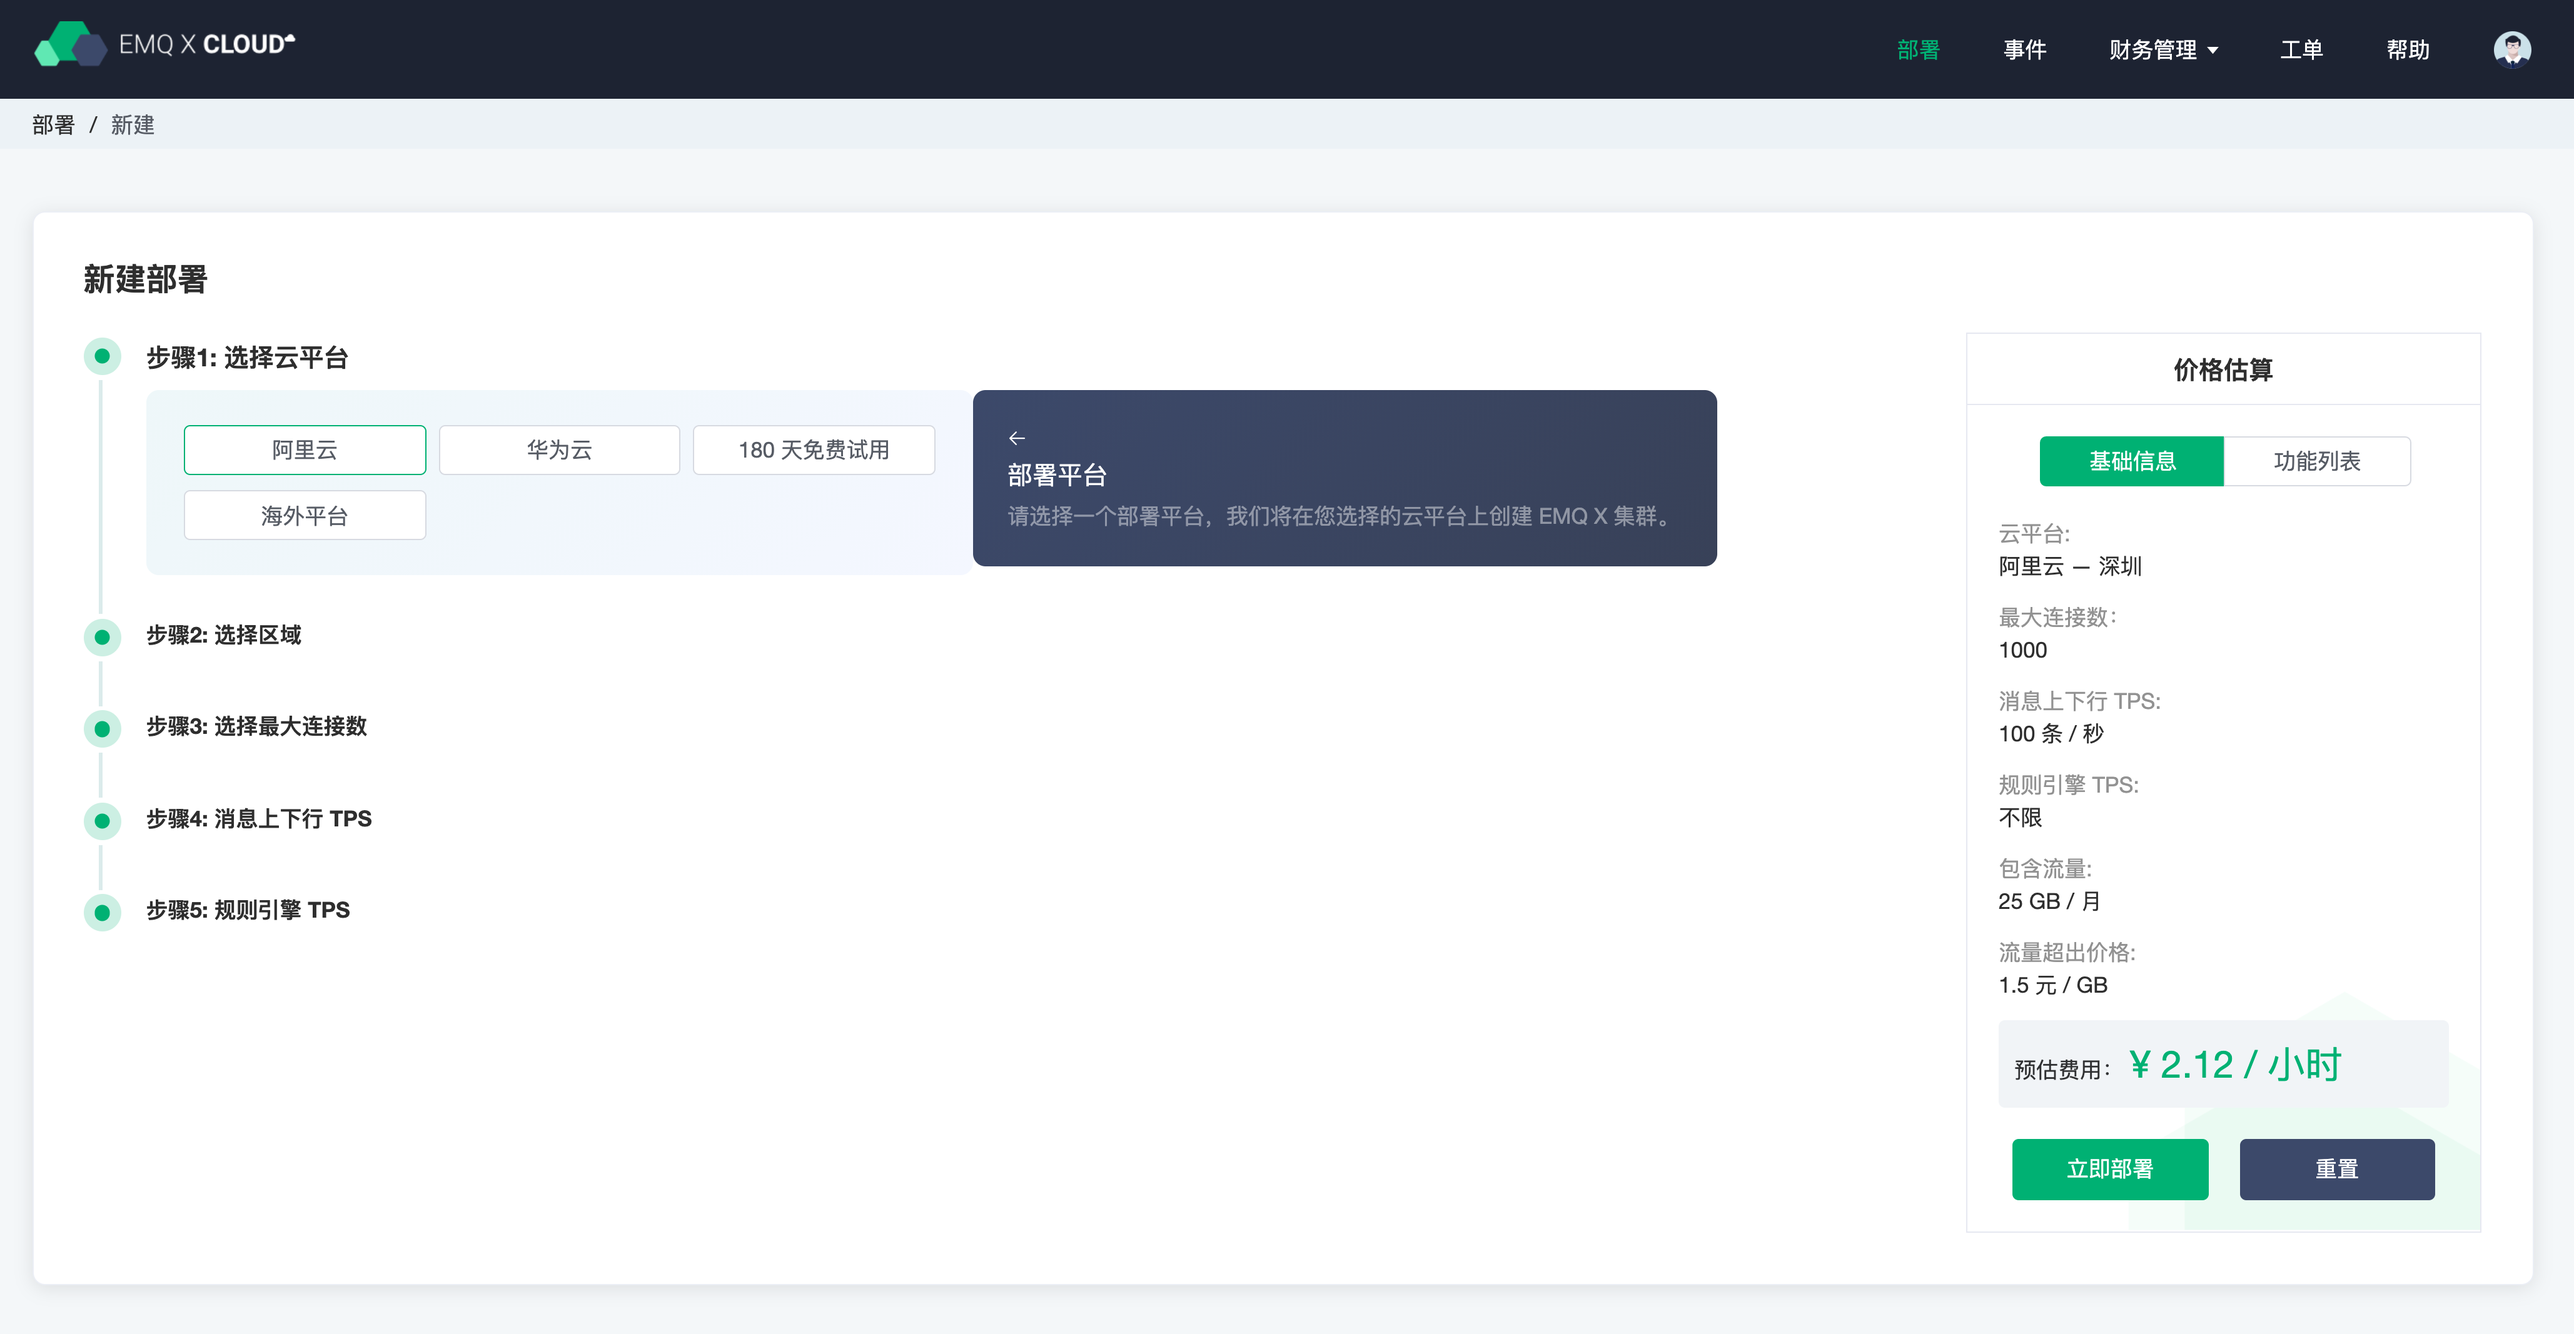
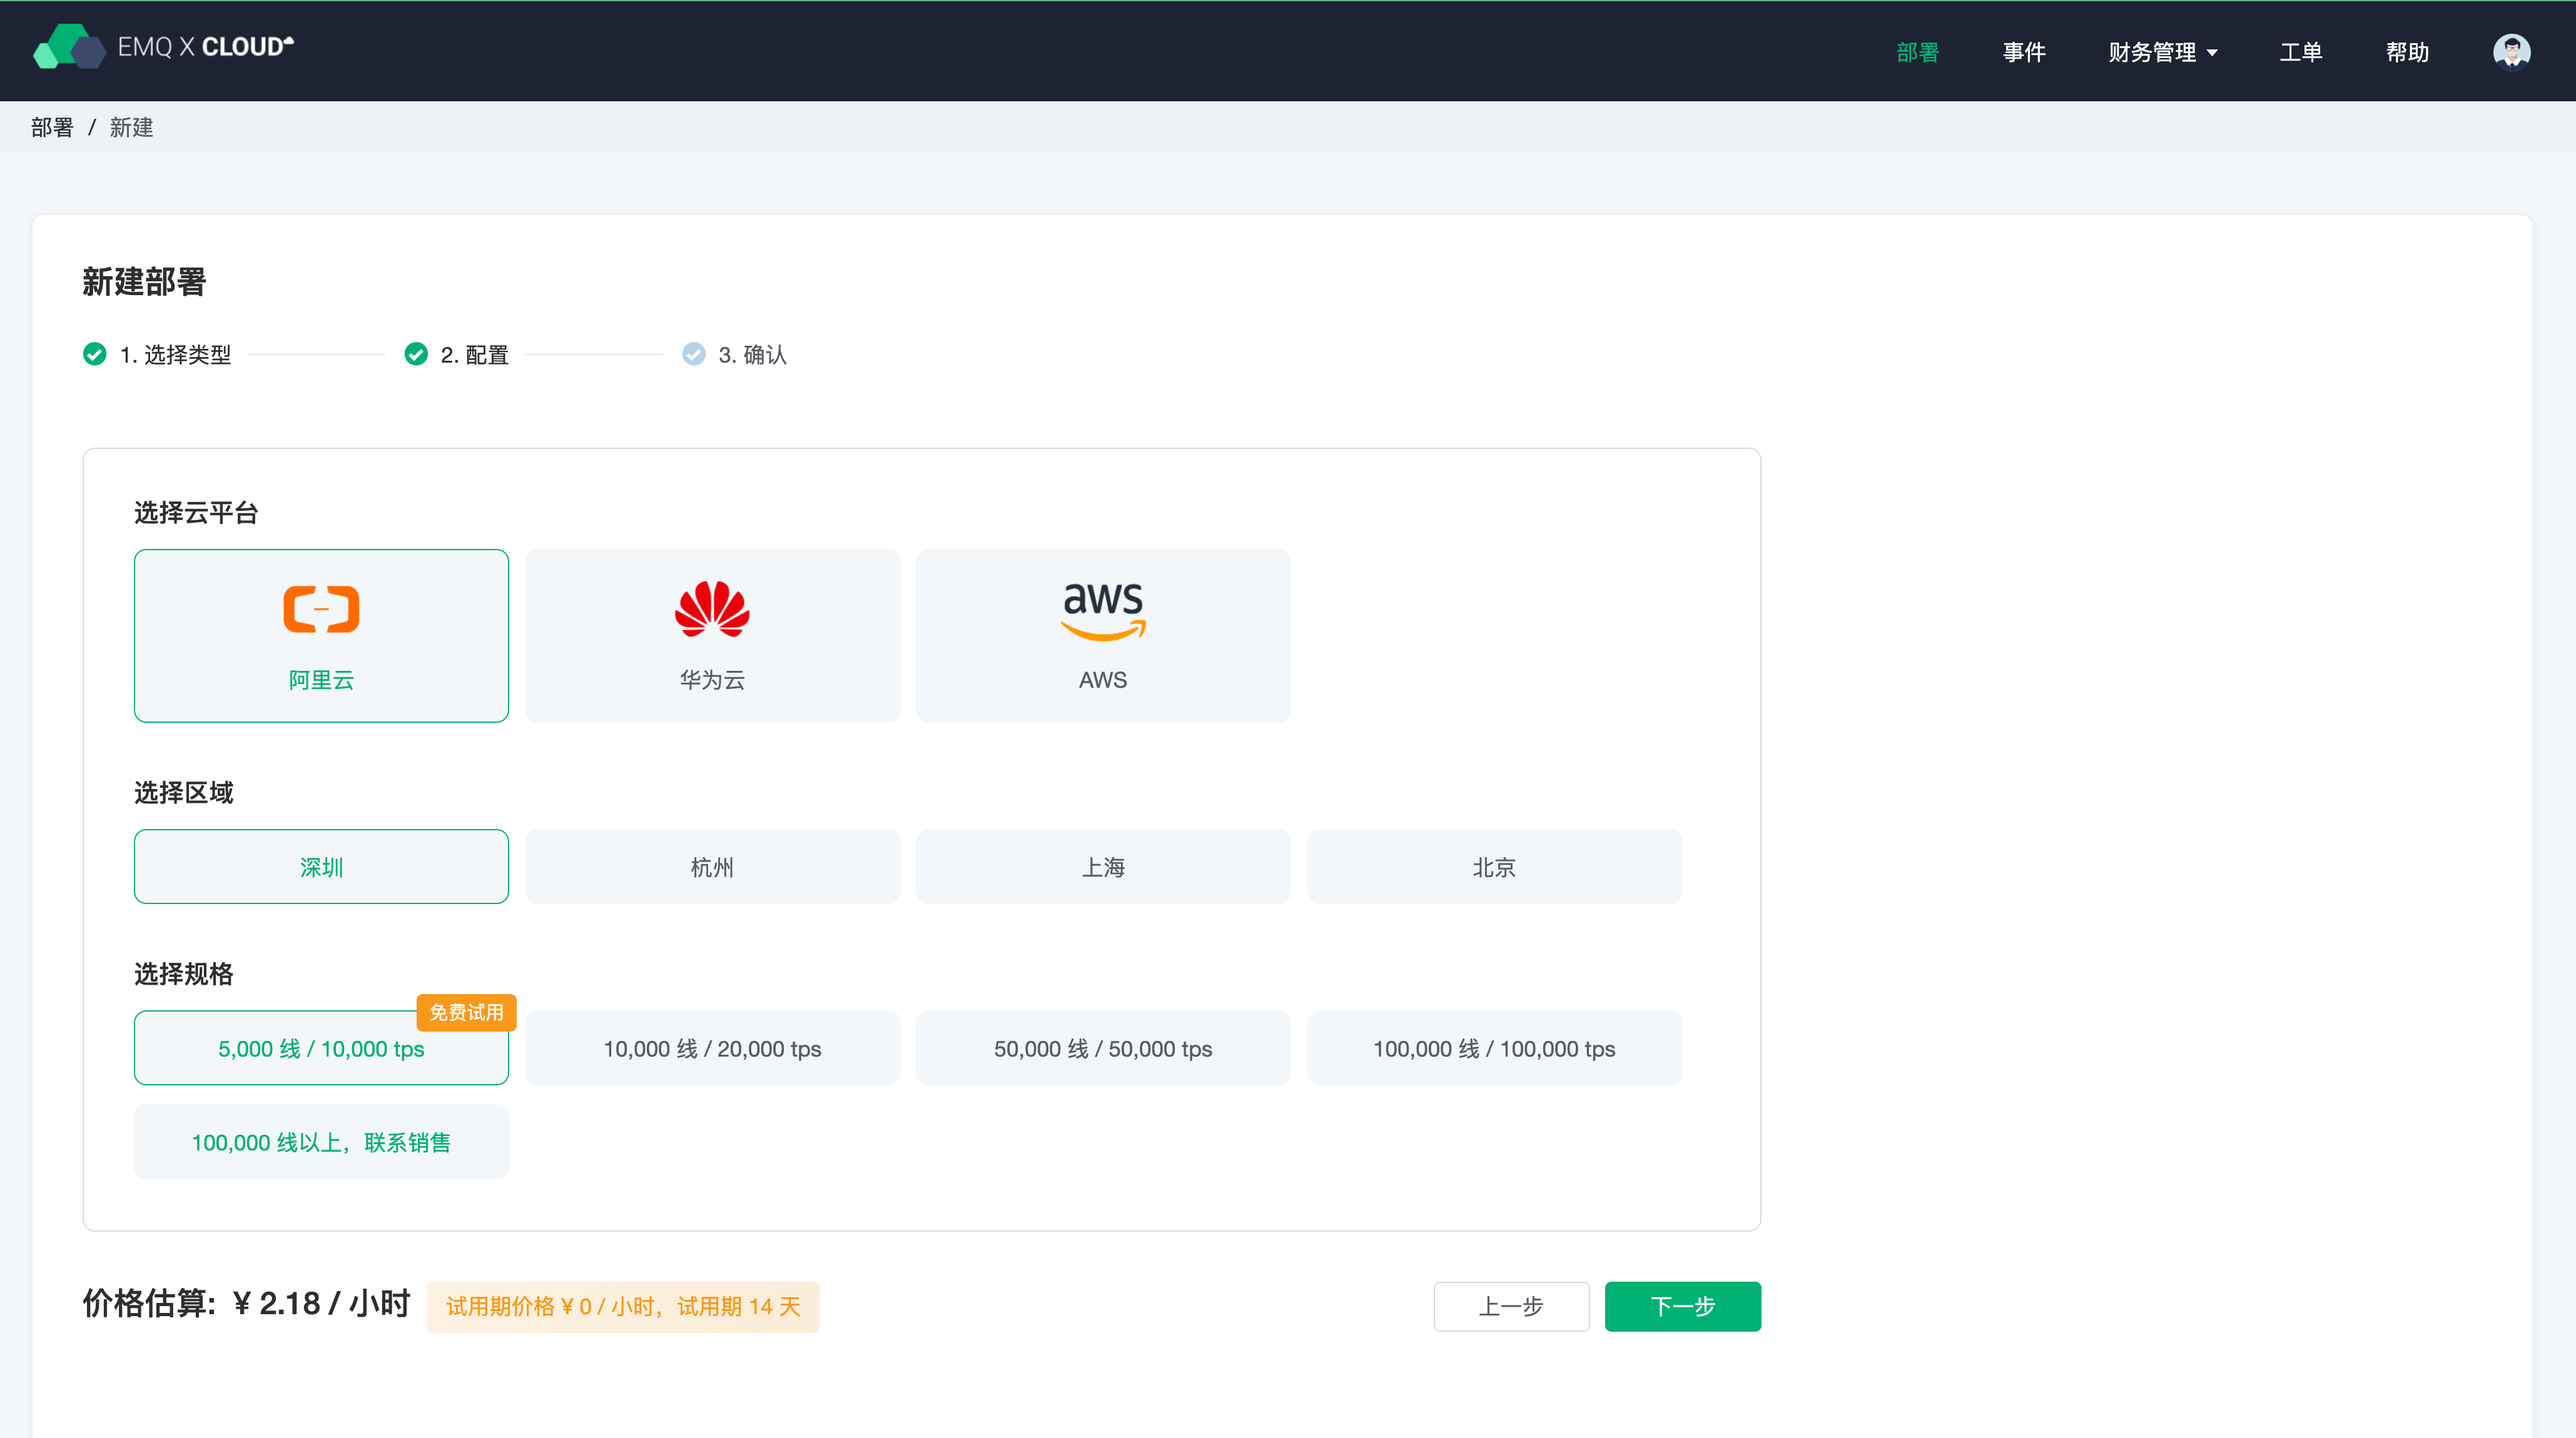
doc(deployment): adjust deployment docs for new edition

diff --git a/zh_CN/deployments/create_deployment.md b/zh_CN/deployments/create_deployment.md
@@ -16,15 +16,20 @@
 1. 登录账户，导航到 EMQ X Cloud [控制台](https://cloud.emqx.cn/console/)。
 2. 点击右上角**新建按钮**进入部署价格估算页面。
 3. 依据您的需求选择相应的版本
+
    ![select_deployment_type](./_assets/select_deployment_type.png)
+
 4. 依据您的需求选择相应规格配置。
+
    ![select_deployment_spec](./_assets/select_deployment_spec.png)
-   * 选择云平台：EMQ X Cloud 暂支持华为云、阿里云，如您有其他云服务提供商需求，您可以提交[工单](../contact.md)或通过邮件（cloud@emqx.io）和我们联系。
-   * 选择区域：EMQ X Cloud 暂支持华为云（广州，上海，北京）阿里云（深圳，上海，杭州，北京），如您有其他区域需求，您可以提交 [工单](../contact.md) 或通过邮件（cloud@emqx.io）和我们联系。
+   * 选择云平台：EMQ X Cloud 暂时支持华为云、阿里云，如您有其他云服务提供商需求，您可以提交[工单](../contact.md)或通过邮件（cloud@emqx.io）和我们联系。
+   * 选择区域：EMQ X Cloud 暂时支持华为云（广州，上海，北京），阿里云（深圳，上海，杭州，北京），如您有其他区域需求，您可以提交 [工单](../contact.md) 或通过邮件（cloud@emqx.io）和我们联系。
    * 选择最大连接数：客户端最大允许接入数，您后续可以通过 [升降部署规格](./upgrade_deployment.md) 实现增加和减少最大连接数。
    * 消息上下行 TPS：部署每秒钟发送和接收消息条数的总和，您后续可以通过 [升降部署规格](./upgrade_deployment.md) 实现增加和减少消息上下行 TPS。
 5. 在 **确认** 页核对部署信息。
+
    ![confirm_page](./_assets/confirm_page.png)
+
 6. 点击 **立即部署** 并同意 EMQ X Cloud 服务条款。您将跳转到控制台部署详情页面。
-7. 等待 5 ~ 10 分钟直至部署运行状态为**运行中** 。
+7. 等待 5 ~ 10 分钟直至部署运行状态为**运行中**。
 8. 您可以前往 [连接到部署](../connect_to_deployments/introduction.md) 查看更多方法连接部署。

diff --git a/zh_CN/deployments/calculator.md b/zh_CN/deployments/calculator.md
@@ -6,11 +6,13 @@ EMQ X Cloud  价格计算允许您依据实际业务需求预估，预估 EMQX C
 
 ## 访问 EMQ X Cloud 价格估算
 
-* 对于**未注册** EMQ X Cloud 的用户，您可以前往 [价格估算](https://cloud.emqx.cn/calculator)，使用价格估算。
+* 对于**未注册** EMQ X Cloud 的用户，您可以前往 [价格](https://cloud.emqx.cn/pricing) 页面，使用价格估算。
 
   ![calculator](./_assets/calculator.png)
 
-* 对于**登录**到 EMQ X Cloud 的用户，您可以前往 [价格估算](https://cloud.emqx.cn/console/deployments/0?oper=new), 使用价格估算，并创建部署。
+* 对于**登录**到 EMQ X Cloud 的用户，您可以前往 [价格估算](https://cloud.emqx.cn/console/deployments/0?oper=new)，选择版本，使用价格估算，并创建部署。
+  
+  ![edition](_assets/choose_edition.png)
 
   ![calculator](./_assets/console_calculator.png)
 
@@ -18,9 +20,9 @@ EMQ X Cloud  价格计算允许您依据实际业务需求预估，预估 EMQX C
 
 ## 获取部署每小时价格
 
-您可以依次选择云平台，区域，预估最大连接数，消息上下行来获取部署每小时价格。
+您可以依次选择云平台，区域和规格获取部署每小时价格。
 
-> 选择华为云平台，广州区域，最大连接数 1000，消息上下行 TPS 为 1000，则每小时价格为 2.41，则每月基础费用为： 2.41 * 730 = 1759。
+> 专业版：选择阿里云平台，深圳区域，最大连接数 5000，消息上下行 TPS 为 10000，则每小时价格为 2.18，则每月基础费用为： 2.18 * 730 = 1591。
 
 ![deployment_price](./_assets/deployment_price.png)
 

diff --git a/zh_CN/rule_engine/rules.md b/zh_CN/rule_engine/rules.md
@@ -4,7 +4,7 @@
 
 - 触发事件：规则通过事件触发，触发时事件给规则注入事件的上下文信息（数据源），通过 SQL 的 FROM 子句指定事件类型；
 
-- 处理规则（SQL）：使用 SELECT 子句 和 WHERE 子句以及内置处理函数， 从上下文信息中过滤和处理数据；
+- 处理规则（SQL）：使用 SELECT 子句和 WHERE 子句以及内置处理函数，从上下文信息中过滤和处理数据；
 
 - 响应动作：如果有处理结果输出，规则将执行相应的动作，如持久化到数据库、重新发布处理后的消息、转发消息到消息队列等。一条规则可以配置多个响应动作。
 

diff --git a/zh_CN/deployments/introduction.md b/zh_CN/deployments/introduction.md
@@ -55,15 +55,15 @@
 
 ### [TLS/SSL 设置](./tls_ssl.md)
 
-独享部署允许自定义单向和双向 TLS/SSL 连接。
+专业版部署允许自定义单向和双向 TLS/SSL 连接。
 
 ### [VPC 对等连接设置](./vpc_peering.md)
 
-通过对独享部署创建对等连接，使得部署与您业务机器实现内外通信。
+通过对专业版部署创建对等连接，使得部署与您业务机器实现内外通信。
 
 ### [NAT 网关设置](./nat.md)
 
-通过对独享部署创建 NAT 网关，使得部署具备访问公网资源。
+通过对专业版部署创建 NAT 网关，使得部署具备访问公网资源。
 
 
 

diff --git a/zh_CN/deployments/tls_ssl.md b/zh_CN/deployments/tls_ssl.md
@@ -4,7 +4,7 @@
 该功能在基础版中不可用
 :::
 
-EMQ X Cloud **独享部署** 提供自定义 单向/双向 TLS/SSL 配置，具体如下：
+EMQ X Cloud **专业版部署** 提供自定义 单向/双向 TLS/SSL 配置，具体如下：
 
 | 认证方式 | 是否支持自签名证书 | 服务器证书 | 证书链 | 私有秘钥 | 客户端 CA 证书 |
 | -------- | ------------------ | ---------- | ------ | -------- | -------------- |

diff --git a/zh_CN/deployments/view_deployment.md b/zh_CN/deployments/view_deployment.md
@@ -15,7 +15,7 @@
 
 * 连接地址
 
-  * 独享部署连接地址：IP
+  * 专业版部署连接地址：IP
 
   * 基础版连接地址：以 emqx.cloud 后缀结尾的域名
 
